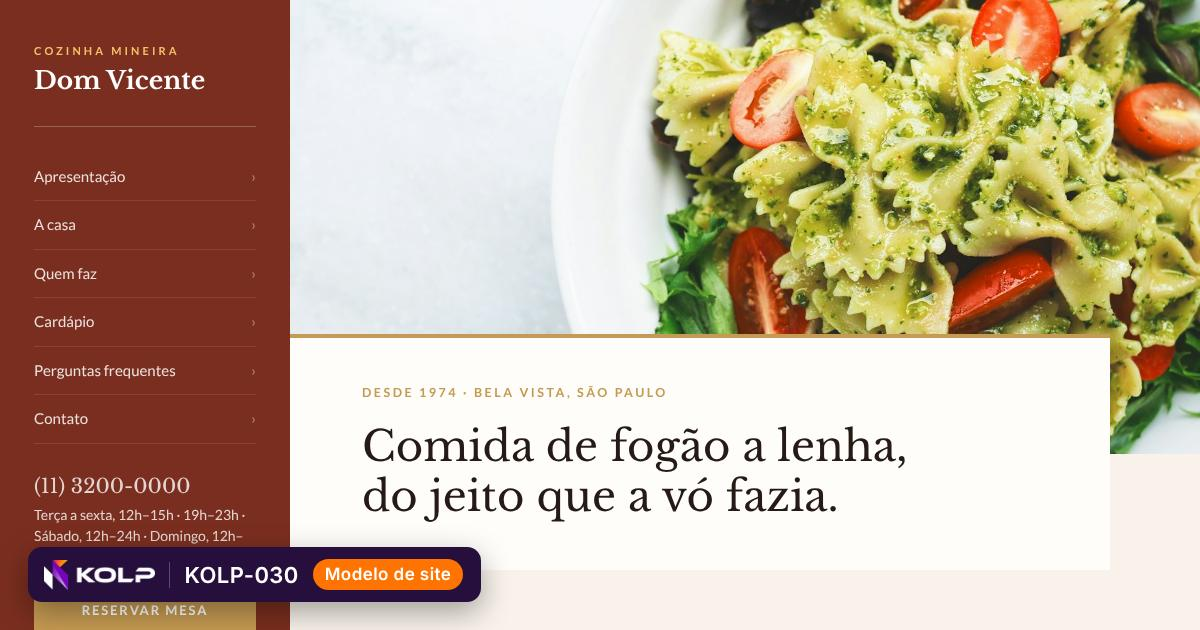
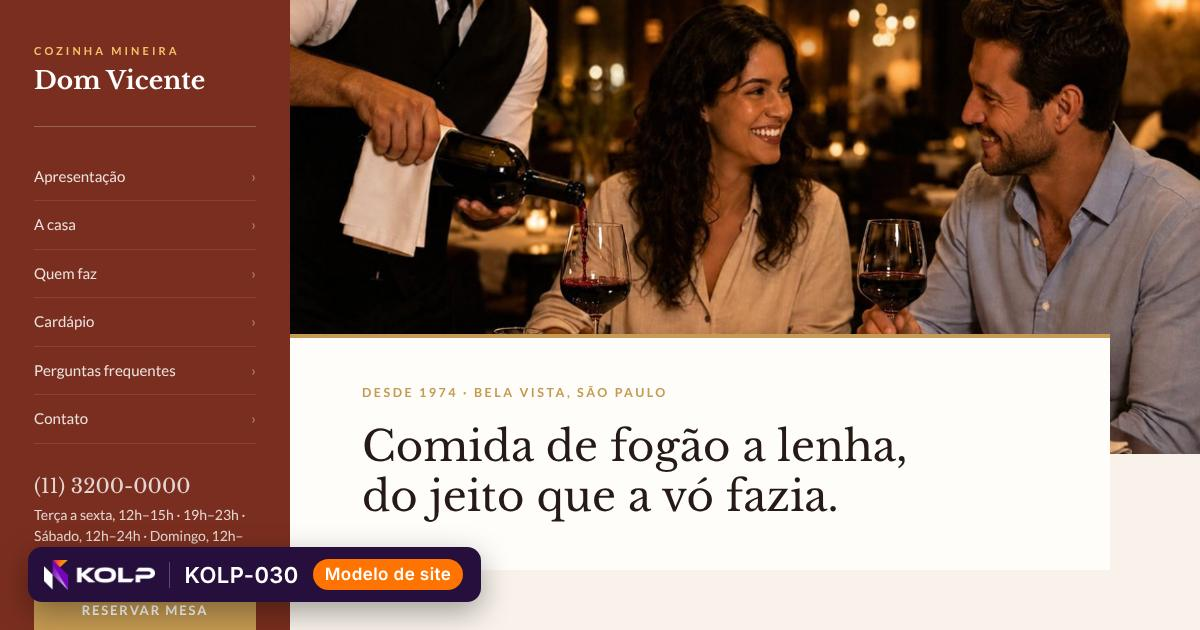
Bring restaurante to 10 photos
Every niche now has at least 10 photos, so each model in a niche
opens with a different image.

Claude-Session: https://claude.ai/code/session_0151Yi9K8yWSyYvoKWm1KgPz

diff --git a/kolp-modelos/demo/restaurante-08/index.html b/kolp-modelos/demo/restaurante-08/index.html
@@ -34,17 +34,17 @@
     <p class="lide">A casa cresceu, mas continua da família: a terceira geração está na cozinha e no salão todos os dias.</p>
     <div class="acoes"><a class="botao" href="#contato">Reservar mesa</a><a class="elo" href="#servicos">Ver o cardápio</a></div>
     <div class="mosaico">
-      <img class="m1" src="../../fotos/restaurante/2.jpg" alt="" width="1400" height="930">
-      <img class="m2" src="../../fotos/restaurante/1.jpg" alt="" width="1400" height="930">
-      <img class="m3" src="../../fotos/restaurante/3.jpg" alt="" width="1400" height="930">
+      <img class="m1" src="../../fotos/restaurante/9.jpg" alt="" width="1400" height="930">
+      <img class="m2" src="../../fotos/restaurante/8.jpg" alt="" width="1400" height="930">
+      <img class="m3" src="../../fotos/restaurante/10.jpg" alt="" width="1400" height="930">
       <p class="selo"><b>50</b>anos de casa</p>
     </div>
   </div></section>
   <section class="pontos"><ul class="largura"><li class="rev">Manobrista no almoço e no jantar</li><li class="rev">Aceitamos todos os cartões e vale-refeição</li><li class="rev">Salão reservado para grupos e eventos</li></ul></section>
   <section class="servicos" id="servicos"><div class="largura">
     <header class="topo rev"><h2>A casa</h2><p>Além do salão, a cozinha atende eventos, encomendas e entregas no bairro.</p></header>
-    <div class="par rev"><img src="../../fotos/restaurante/4.jpg" alt="" width="1400" height="930" loading="lazy"><ul><li><h3>Almoço</h3><p>De terça a domingo, com pratos do dia e menu executivo nos dias úteis.</p></li><li><h3>Jantar</h3><p>Cardápio completo, carta de vinhos e sobremesas feitas na casa.</p></li><li><h3>Eventos</h3><p>Aniversários, confraternizações e jantares de empresa em salão reservado.</p></li></ul></div>
-    <div class="par par-inv rev"><img src="../../fotos/restaurante/5.jpg" alt="" width="1400" height="930" loading="lazy"><ul><li><h3>Encomendas</h3><p>Massas frescas, molhos e sobremesas para levar, com um dia de antecedência.</p></li><li><h3>Entrega</h3><p>Pedidos pelo WhatsApp, com entrega própria em um raio de cinco quilômetros.</p></li><li><h3>Vale-presente</h3><p>Jantar para dois com entrada, prato, sobremesa e vinho.</p></li></ul></div>
+    <div class="par rev"><img src="../../fotos/restaurante/1.jpg" alt="" width="1400" height="930" loading="lazy"><ul><li><h3>Almoço</h3><p>De terça a domingo, com pratos do dia e menu executivo nos dias úteis.</p></li><li><h3>Jantar</h3><p>Cardápio completo, carta de vinhos e sobremesas feitas na casa.</p></li><li><h3>Eventos</h3><p>Aniversários, confraternizações e jantares de empresa em salão reservado.</p></li></ul></div>
+    <div class="par par-inv rev"><img src="../../fotos/restaurante/2.jpg" alt="" width="1400" height="930" loading="lazy"><ul><li><h3>Encomendas</h3><p>Massas frescas, molhos e sobremesas para levar, com um dia de antecedência.</p></li><li><h3>Entrega</h3><p>Pedidos pelo WhatsApp, com entrega própria em um raio de cinco quilômetros.</p></li><li><h3>Vale-presente</h3><p>Jantar para dois com entrada, prato, sobremesa e vinho.</p></li></ul></div>
   </div></section>
   <section class="precos" id="precos"><div class="largura">
     <header class="topo rev"><h2>Cardápio</h2><p>Os pratos servem bem uma pessoa. Meia porção disponível para as massas.</p></header>

diff --git a/kolp-modelos/demo/restaurante-07/index.html b/kolp-modelos/demo/restaurante-07/index.html
@@ -43,7 +43,7 @@
     <header class="topo rev"><h2>A casa</h2><p>Além do salão, a cozinha atende eventos, encomendas e entregas no bairro.</p></header>
     <ol class="cartoes"><li class="rev"><h3>Almoço</h3><p>De terça a domingo, com pratos do dia e menu executivo nos dias úteis.</p></li><li class="rev"><h3>Jantar</h3><p>Cardápio completo, carta de vinhos e sobremesas feitas na casa.</p></li><li class="rev"><h3>Eventos</h3><p>Aniversários, confraternizações e jantares de empresa em salão reservado.</p></li><li class="rev"><h3>Encomendas</h3><p>Massas frescas, molhos e sobremesas para levar, com um dia de antecedência.</p></li><li class="rev"><h3>Entrega</h3><p>Pedidos pelo WhatsApp, com entrega própria em um raio de cinco quilômetros.</p></li><li class="rev"><h3>Vale-presente</h3><p>Jantar para dois com entrada, prato, sobremesa e vinho.</p></li></ol>
   </div></section>
-  <section class="faixa rev"><img src="../../fotos/restaurante/1.jpg" alt="" width="1400" height="930" loading="lazy"><p>“Massa fresca, molho de panela e mesa farta”</p></section>
+  <section class="faixa rev"><img src="../../fotos/restaurante/8.jpg" alt="" width="1400" height="930" loading="lazy"><p>“Massa fresca, molho de panela e mesa farta”</p></section>
   <section class="precos" id="precos"><div class="largura precos-grade">
     <div class="precos-lado rev"><h2>Cardápio</h2><p>Os pratos servem bem uma pessoa. Meia porção disponível para as massas.</p><a class="botao" href="#contato">Reservar mesa</a></div>
     <div class="rev"><details open><summary>Entradas</summary><ul><li><div><b>Bruschetta al pomodoro</b><span>Pão da casa tostado, tomate, alho e manjericão</span></div><strong>R$ 32</strong></li><li><div><b>Burrata com tomate assado</b><span>Azeite extravirgem, flor de sal e pão de fermentação natural</span></div><strong>R$ 58</strong></li><li><div><b>Polpette al sugo</b><span>Almôndegas de carne e pecorino ao molho de tomate</span></div><strong>R$ 44</strong></li><li><div><b>Carpaccio</b><span>Lâminas de filé, rúcula, alcaparras e parmesão</span></div><strong>R$ 52</strong></li></ul></details><details><summary>Pratos da casa</summary><ul><li><div><b>Tagliatelle al ragù</b><span>Ragu de cinco horas, receita da fundadora</span></div><strong>R$ 74</strong></li><li><div><b>Ravioli de ricota e espinafre</b><span>Na manteiga de sálvia com nozes tostadas</span></div><strong>R$ 72</strong></li><li><div><b>Lasanha à bolonhesa</b><span>Sete camadas, bechamel e parmesão de 24 meses</span></div><strong>R$ 78</strong></li><li><div><b>Galeto ao limão</b><span>Assado na brasa, com polenta cremosa</span></div><strong>R$ 84</strong></li></ul></details><details><summary>Sobremesas</summary><ul><li><div><b>Tiramisù</b><span>Receita de 1974</span></div><strong>R$ 34</strong></li><li><div><b>Panna cotta</b><span>Com calda de frutas vermelhas</span></div><strong>R$ 30</strong></li><li><div><b>Cannoli siciliani</b><span>Ricota doce, laranja cristalizada e pistache</span></div><strong>R$ 32</strong></li></ul></details></div>

diff --git a/kolp-modelos/demo/restaurante-10/index.html b/kolp-modelos/demo/restaurante-10/index.html
@@ -30,7 +30,7 @@
 <div class="conteudo">
 <main>
   <section class="abertura">
-    <img src="../../fotos/restaurante/3.jpg" alt="" width="1400" height="930">
+    <img src="../../fotos/restaurante/10.jpg" alt="" width="1400" height="930">
     <div class="legenda"><p class="rotulo">Desde 1974 · Bela Vista, São Paulo</p><h1>Comida de fogão a lenha, do jeito que a vó fazia.</h1></div>
   </section>
   <section class="sobre" id="sobre">
@@ -41,7 +41,7 @@
     <header class="topo"><h2>A casa</h2><p>Além do salão, a cozinha atende eventos, encomendas e entregas no bairro.</p></header>
     <ul class="servicos"><li><h3>Almoço</h3><p>De terça a domingo, com pratos do dia e menu executivo nos dias úteis.</p></li><li><h3>Jantar</h3><p>Cardápio completo, carta de vinhos e sobremesas feitas na casa.</p></li><li><h3>Eventos</h3><p>Aniversários, confraternizações e jantares de empresa em salão reservado.</p></li><li><h3>Encomendas</h3><p>Massas frescas, molhos e sobremesas para levar, com um dia de antecedência.</p></li><li><h3>Entrega</h3><p>Pedidos pelo WhatsApp, com entrega própria em um raio de cinco quilômetros.</p></li><li><h3>Vale-presente</h3><p>Jantar para dois com entrada, prato, sobremesa e vinho.</p></li></ul>
   </section>
-  <figure class="citacao"><img src="../../fotos/restaurante/4.jpg" alt="" width="1400" height="930" loading="lazy"><blockquote>“Massa fresca, molho de panela e mesa farta”</blockquote></figure>
+  <figure class="citacao"><img src="../../fotos/restaurante/1.jpg" alt="" width="1400" height="930" loading="lazy"><blockquote>“Massa fresca, molho de panela e mesa farta”</blockquote></figure>
   <section id="equipe">
     <header class="topo"><h2>Quem faz</h2><p>A cozinha e o salão são tocados pela família, com uma equipe que está na casa há mais de dez anos.</p></header>
     <div class="equipe"><article><img src="../../fotos/retratos/f3.jpg" alt="Retrato de Paola Ferraro" width="560" height="680" loading="lazy"><div><h3>Paola Ferraro</h3><p class="cargo">Chef e sócia</p><p>Terceira geração da família. Formada em gastronomia em Bolonha, voltou para assumir a cozinha em 2015.</p></div></article><article><img src="../../fotos/retratos/m3.jpg" alt="Retrato de Renato Ferraro" width="560" height="680" loading="lazy"><div><h3>Renato Ferraro</h3><p class="cargo">Salão e adega</p><p>Cuida do atendimento e da carta de vinhos, que troca a cada estação.</p></div></article><article><img src="../../fotos/retratos/m4.jpg" alt="Retrato de Seu Olavo" width="560" height="680" loading="lazy"><div><h3>Seu Olavo</h3><p class="cargo">Mestre do forno</p><p>Há vinte e dois anos na casa. É dele o pão que chega à mesa.</p></div></article></div>

diff --git a/kolp-modelos/demo/restaurante-09/index.html b/kolp-modelos/demo/restaurante-09/index.html
@@ -30,7 +30,7 @@
 </div></header>
 <main>
   <section class="abertura">
-    <img src="../../fotos/restaurante/2.jpg" alt="" width="1400" height="930">
+    <img src="../../fotos/restaurante/9.jpg" alt="" width="1400" height="930">
     <div class="abertura-bloco"><div>
       <p class="rotulo">Bela Vista, São Paulo</p>
       <h1>Pizza de fermentação lenta, assada a novecentos graus.</h1>
@@ -51,7 +51,7 @@
     <header class="topo"><h2>Cardápio</h2><p>Os pratos servem bem uma pessoa. Meia porção disponível para as massas.</p></header>
     <div class="tabela-rolagem"><table><tbody><tr class="grupo"><th colspan="3">Entradas</th></tr><tr><th>Bruschetta al pomodoro</th><td>Pão da casa tostado, tomate, alho e manjericão</td><td>R$ 32</td></tr><tr><th>Burrata com tomate assado</th><td>Azeite extravirgem, flor de sal e pão de fermentação natural</td><td>R$ 58</td></tr><tr><th>Polpette al sugo</th><td>Almôndegas de carne e pecorino ao molho de tomate</td><td>R$ 44</td></tr><tr><th>Carpaccio</th><td>Lâminas de filé, rúcula, alcaparras e parmesão</td><td>R$ 52</td></tr></tbody><tbody><tr class="grupo"><th colspan="3">Pratos da casa</th></tr><tr><th>Tagliatelle al ragù</th><td>Ragu de cinco horas, receita da fundadora</td><td>R$ 74</td></tr><tr><th>Ravioli de ricota e espinafre</th><td>Na manteiga de sálvia com nozes tostadas</td><td>R$ 72</td></tr><tr><th>Lasanha à bolonhesa</th><td>Sete camadas, bechamel e parmesão de 24 meses</td><td>R$ 78</td></tr><tr><th>Galeto ao limão</th><td>Assado na brasa, com polenta cremosa</td><td>R$ 84</td></tr></tbody><tbody><tr class="grupo"><th colspan="3">Sobremesas</th></tr><tr><th>Tiramisù</th><td>Receita de 1974</td><td>R$ 34</td></tr><tr><th>Panna cotta</th><td>Com calda de frutas vermelhas</td><td>R$ 30</td></tr><tr><th>Cannoli siciliani</th><td>Ricota doce, laranja cristalizada e pistache</td><td>R$ 32</td></tr></tbody></table></div>
   </div></section>
-  <section class="prova"><img src="../../fotos/restaurante/3.jpg" alt="" width="1400" height="930" loading="lazy">
+  <section class="prova"><img src="../../fotos/restaurante/10.jpg" alt="" width="1400" height="930" loading="lazy">
     <blockquote><p>“Comemoro meu aniversário aqui desde os quinze anos. Mudaram os garçons, mudou a decoração, mas o ragu continua exatamente o mesmo.”</p><footer><b>Cláudia Fontes</b> cliente há trinta anos</footer></blockquote>
   </section>
   <section class="contato" id="contato"><div class="largura contato-grade">
